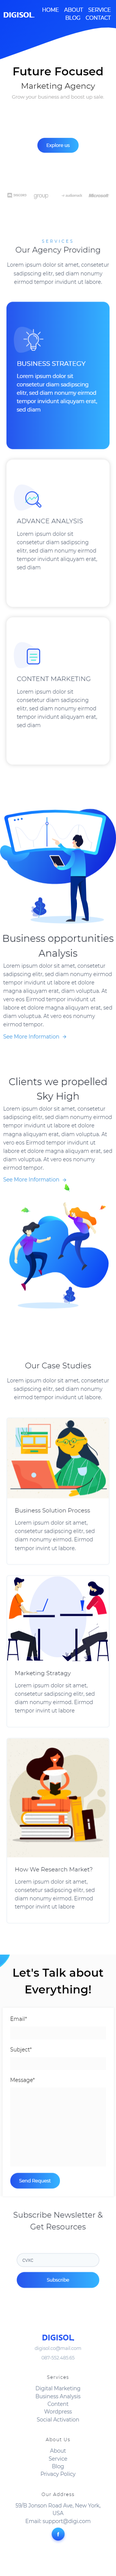
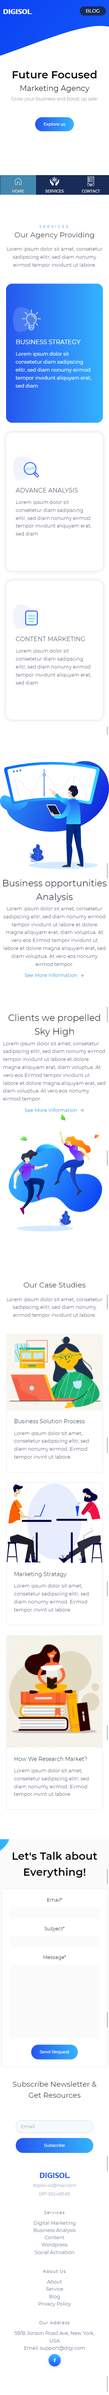
dd tab bar and fix responsive issue

diff --git a/index.html b/index.html
@@ -13,18 +13,16 @@
     <section id="main">
         <div class="page-container main-backround flex-c">
             <header class="header">
-                <img  src="/assets/illustration/logo.svg" alt="Logo" class="logo hide-mobile">
-                <img  src="/assets/illustration/logo-white.svg" alt="Logo" class="logo hide-desktop">
+                <img src="/assets/illustration/logo.svg" alt="Logo" class="logo hide-mobile">
+                <img src="/assets/illustration/logo-white.svg" alt="Logo" class="logo hide-desktop">
                 <nav>
-                <nav>
-                    <ul class="nav-list">
-                        <li><a href="#">HOME</a></li>
-                        <li><a href="#">ABOUT</a></li>
-                        <li><a href="#">SERVICE</a></li>
-                        <li><a href="#">BLOG</a></li>
-                        <li><a href="#">CONTACT</a></li>
-                    </ul>
-                </nav>
+                    <nav>
+                        <ul class="nav-list">
+                            <li class="hide-mobile"><a href="#">HOME</a></li>
+                            <li class="hide-mobile"><a href="#">SERVICES</a></li>
+                            <li class="mobile-href-btn"><a href="#">BLOG</a></li>
+                        </ul>
+                    </nav>
             </header>
             <div class="main-section-container">
                 <div class="flex-box-50 text-section">
@@ -109,7 +107,8 @@
                 <img alt="ecommerce" class="lg:w-1/2 w-full lg:h-auto  object-cover object-center rounded"
                     src="/assets/illustration/Analysis-illustration.svg">
                 <div style="align-self: center;" class="lg:w-1/2 w-full lg:pl-10 lg:py-6 mt-6 lg:mt-0">
-                    <h1 class="center-mobile text-left text-gray-900 text-3xl title-font font-medium mb-1">Business opportunities
+                    <h1 class="center-mobile text-left text-gray-900 text-3xl title-font font-medium mb-1">Business
+                        opportunities
                         Analysis</h1>
                     <p class="leading-relaxed long-paragraph">
                         Lorem ipsum dolor sit amet, consetetur sadipscing elitr, sed diam
@@ -118,7 +117,8 @@
 
                         Eirmod tempor invidunt ut labore et dolore magna aliquyam erat,
                         sed diam voluptua. At vero eos nonumy eirmod tempor.</p>
-                    <a href="#" class="text-left long-paragraph mt-3 text-blue-500 inline-flex items-center">See More Information
+                    <a href="#" class="text-left long-paragraph mt-3 text-blue-500 inline-flex items-center">See More
+                        Information
                         <svg fill="none" stroke="currentColor" stroke-linecap="round" stroke-linejoin="round"
                             stroke-width="2" class="w-4 h-4 ml-2" viewBox="0 0 24 24">
                             <path d="M5 12h14M12 5l7 7-7 7"></path>
@@ -132,7 +132,8 @@
         <div class="container py-10 px-80">
             <div class="lg:w-4/5 mx-auto flex flex-wrap">
                 <div style="align-self: center;" class=" lg:w-1/2 w-full lg:pl-10 lg:py-6 mt-6 lg:mt-0">
-                    <h1 class="center-mobile text-left text-gray-900 text-3xl title-font font-medium mb-1">Clients we propelled
+                    <h1 class="center-mobile text-left text-gray-900 text-3xl title-font font-medium mb-1">Clients we
+                        propelled
                         Sky High </h1>
                     <p class="leading-relaxed long-paragraph text-left">
                         Lorem ipsum dolor sit amet, consetetur sadipscing elitr, sed diam
@@ -141,7 +142,8 @@
 
                         Eirmod tempor invidunt ut labore et dolore magna aliquyam erat,
                         sed diam voluptua. At vero eos nonumy eirmod tempor.</p>
-                    <a href="#" class="text-left long-paragraph mt-3 text-blue-500 inline-flex items-center">See More Information
+                    <a href="#" class="text-left long-paragraph mt-3 text-blue-500 inline-flex items-center">See More
+                        Information
                         <svg fill="none" stroke="currentColor" stroke-linecap="round" stroke-linejoin="round"
                             stroke-width="2" class="w-4 h-4 ml-2" viewBox="0 0 24 24">
                             <path d="M5 12h14M12 5l7 7-7 7"></path>
@@ -202,8 +204,8 @@
             </div>
         </div>
     </section>
-    <section class="centered-text">
-        <div class="contact-section main-padding" >
+    <section id="contact" class="centered-text">
+        <div class="contact-section main-padding">
             <div class="form-container">
                 <form action="#">
                     <div class="form-group">
@@ -218,7 +220,7 @@
                         <span>Message*</span>
                         <textarea name="data" id="" cols="30" rows="10"></textarea>
                     </div>
-                    <div >
+                    <div>
                         <button class="cta">Send Request</button>
                     </div>
                 </form>
@@ -227,7 +229,8 @@
                 <h1 class="main-header">Let's Talk about
                     Everything! </h1>
                 <span class="border-bottom hide-mobile"></span>
-                <p class="hide-mobile">Lorem ipsum dolor sit amet, consetetur sadipscing elitr, sed diam nonumy eirmod tempor invidunt ut
+                <p class="hide-mobile">Lorem ipsum dolor sit amet, consetetur sadipscing elitr, sed diam nonumy eirmod
+                    tempor invidunt ut
                     labore et dolore magna aliquyam erat, diam voluptua. At vero eos</p>
             </div>
         </div>
@@ -316,8 +319,42 @@
                 </div>
             </div>
         </div>
-
     </footer>
+    <div class="tab-offset hide-desktop"></div>
+    <div class="tab-bar hide-desktop">
+        <div>
+            <input class="hit-area" type="radio" id="home-rad" name="hit-area" checked>
+            <div class="tab">
+                <a href="#main">
+                    <svg xmlns:dc="http://purl.org/dc/elements/1.1/" xmlns:cc="http://creativecommons.org/ns#" height="40" xmlns:rdf="http://www.w3.org/1999/02/22-rdf-syntax-ns#" xmlns:svg="http://www.w3.org/2000/svg" xmlns="http://www.w3.org/2000/svg" xmlns:sodipodi="http://sodipodi.sourceforge.net/DTD/sodipodi-0.dtd" xmlns:inkscape="http://www.inkscape.org/namespaces/inkscape" version="1.1" x="0px" y="0px" viewBox="0 0 100 125"><g transform="translate(0,-952.36218)"><path style="text-indent:0;text-transform:none;direction:ltr;block-progression:tb;baseline-shift:baseline;color:#000000;enable-background:accumulate;" d="m 48.781207,966.76842 -31,24.00005 c -0.486,0.3736 -0.7836,0.9808 -0.7812,1.5938 l 0,44.00003 c 10e-5,1.0472 0.9528,1.9999 2,2 l 21,0 c 1.0472,-10e-5 1.9999,-0.9528 2,-2 l 0,-24 16,0 0,24 c 1e-4,1.0472 0.9528,1.9999 2,2 l 21,0 c 1.0472,-10e-5 1.9999,-0.9528 2,-2 l 0,-44.00003 c 0,-0.613 -0.2952,-1.2202 -0.7812,-1.5938 l -31,-24.00005 c -0.9111,-0.5694 -1.6958,-0.5134 -2.4376,0 z m 1.2188,4.0938 29,22.46875 0,41.03133 -17,0 0,-24 c -10e-5,-1.0472 -0.9528,-1.9999 -2,-2 l -20,0 c -1.0472,10e-5 -1.9999,0.9528 -2,2 l 0,24 -17,0 0,-41.03133 z" fill="white" fill-opacity="1" stroke="none" marker="none" visibility="visible" display="inline" overflow="visible"/></g></svg>
+                </a>
+                <a href="#services"><label for="service-rad">HOME</a></label> 
+            </div>
+        </div>
+        <div>
+            <input class="hit-area" type="radio" id="service-rad" name="hit-area">
+           
+            <div class="tab">
+                <a href="#services" for="service-rad">
+                    <svg fill="white" height="40"  xmlns="http://www.w3.org/2000/svg" xmlns:xlink="http://www.w3.org/1999/xlink" version="1.1" x="0px" y="0px" viewBox="0 0 100 125" enable-background="new 0 0 100 100" xml:space="preserve"><path d="M86.7,45.9c-0.4-0.3-0.9-0.5-1.4-0.6c0,0,0-0.1-0.1-0.1c0.3-2.5,1.2-7.3,1.9-9.8c0.3-1.2,1.1-2.1,2.3-2.6  c-0.3,0.9-0.4,1.7-0.6,2.6c-0.5,2.8-1.1,7.8-1.2,10.4c0,0.3,0,0.5,0,0.8C87.4,46.4,87.1,46.1,86.7,45.9z M2.6,30.9  c-0.9,0.8-1.4,2-1.2,3.2l2.5,24.5l0.1,0.9c0.5,3.1,1.9,5.6,4,7.9l14.5,17.4l0.3,8c0,0.7,0.6,1.3,1.3,1.3l15.2,0.1  c0.7,0,1.3-0.6,1.3-1.3l0.5-9.7c0.1-1,0.2-2,0.2-2.8l0,0h0c0-1-0.1-1.7-0.1-1.7c-0.7-3-1.8-9-9.9-14.8c-0.8-0.6-1.9-1.7-2.5-2.4  l-9-11.6c-0.9-1.6-3.2-2.1-4.9-1.1c-1.7,1-2.2,3.3-1.3,4.8l8.7,14.1c0.3,0.5,0.1,1.1-0.4,1.3c-0.4,0.2-1,0.1-1.2-0.3l-0.4-0.5  c0,0-6.6-9-9.8-16.1c-0.6-1.3-0.9-2.6-1-4c0-0.2,0-0.5,0-0.7c-0.1-3.2-0.6-7.8-1.2-11c-0.2-0.9-0.6-4.2-1.6-5.3  C5.6,29.7,3.8,30,2.6,30.9z M12.8,35.4c0.7,2.5,1.5,7.3,1.9,9.8c0,0,0,0.1-0.1,0.1c-0.5,0.2-0.9,0.4-1.4,0.6c-0.4,0.2-0.7,0.5-1,0.7  c0-0.3,0-0.5,0-0.8c-0.1-2.7-0.7-7.6-1.2-10.4c-0.1-0.8-0.3-1.7-0.6-2.6C11.8,33.3,12.5,34.2,12.8,35.4z M17.7,38.9  c0.4,1.5,1.5,4.8,1.7,6.4c-0.7-0.3-1.4-0.4-2.2-0.4c0-0.1,0-0.2,0-0.3l-0.2-1.2c-0.2-1.8-1.3-5.1-1.7-7  C16.6,36.8,17.3,37.7,17.7,38.9z M97.4,30.9c0.9,0.8,1.4,2,1.2,3.2l-2.5,24.5l-0.1,0.9c-0.5,3.1-1.9,5.6-4.1,7.9L77.4,84.8l-0.3,8  c0,0.7-0.6,1.3-1.3,1.3l-15.2,0.1c-0.7,0-1.3-0.6-1.3-1.3l-0.5-9.7c-0.1-1-0.2-2-0.2-2.8v0c0-1,0.1-1.7,0.1-1.7  c0.7-3,1.8-9,9.9-14.8c0.8-0.6,1.9-1.7,2.5-2.4l9-11.6c0.9-1.6,3.2-2.1,4.9-1.1c1.7,1,2.2,3.3,1.3,4.8l-8.7,14.1  c-0.3,0.5-0.1,1.1,0.4,1.3c0.4,0.2,1,0.1,1.2-0.3l0.4-0.5c0,0,6.6-9,9.8-16.1c0.6-1.3,0.9-2.6,1-4c0-0.2,0-0.5,0-0.7  c0.1-3.2,0.6-7.8,1.2-11c0.2-0.9,0.6-4.2,1.6-5.3C94.4,29.7,96.2,30,97.4,30.9z M82.8,44.6c0,0.1,0,0.2,0,0.3  c-0.7,0-1.5,0.2-2.2,0.4c0.2-1.6,1.3-4.9,1.7-6.4c0.3-1.2,1-2.1,2.3-2.5c-0.4,1.8-1.4,5.2-1.7,7L82.8,44.6z M24.4,33.9  C24.4,19.8,35.9,8.3,50,8.3V6.1c0-0.2,0.3-0.4,0.5-0.2l6,4.1c0.2,0.1,0.2,0.4,0,0.5l-6,4.1c-0.2,0.1-0.5,0-0.5-0.2v-2.2  c-12,0-21.8,9.8-21.8,21.8c0,6.9,3.4,13.5,9,17.6L35,54.6C28.4,49.8,24.4,42.1,24.4,33.9z M37.7,44.2l2,2c0.4,0.4,1.1,0.4,1.5,0  l1.7-1.7c1.4,0.9,2.9,1.6,4.6,1.9v2.4c0,0.6,0.5,1.1,1.1,1.1h2.9c0.6,0,1.1-0.5,1.1-1.1v-2.4c1.7-0.3,3.2-1,4.6-1.9l1.7,1.7  c0.4,0.4,1.1,0.4,1.5,0l2-2c0.4-0.4,0.4-1.1,0-1.5L60.7,41c0.9-1.4,1.6-2.9,1.9-4.6H65c0.6,0,1.1-0.5,1.1-1.1v-2.9  c0-0.6-0.5-1.1-1.1-1.1h-2.4c-0.3-1.7-1-3.3-1.9-4.6l1.7-1.7c0.4-0.4,0.4-1.1,0-1.5l-2-2c-0.4-0.4-1.1-0.4-1.5,0l-1.7,1.7  c-1.4-0.9-2.9-1.6-4.6-1.9v-2.4c0-0.6-0.5-1.1-1.1-1.1h-2.9c-0.6,0-1.1,0.5-1.1,1.1v2.4c-1.7,0.3-3.2,1-4.6,1.9l-1.7-1.7  c-0.4-0.4-1.1-0.4-1.5,0l-2,2c-0.4,0.4-0.4,1.1,0,1.5l1.7,1.7c-0.9,1.4-1.6,2.9-1.9,4.6H35c-0.6,0-1.1,0.5-1.1,1.1v2.9  c0,0.6,0.5,1.1,1.1,1.1h2.4c0.3,1.7,1,3.2,1.9,4.6l-1.7,1.7C37.2,43.1,37.2,43.8,37.7,44.2z M50,28.1c3.2,0,5.8,2.6,5.8,5.8  c0,3.2-2.6,5.8-5.8,5.8c-3.2,0-5.8-2.6-5.8-5.8C44.2,30.7,46.8,28.1,50,28.1z M50,59.5L50,59.5l0,2.2c0,0.2-0.3,0.4-0.5,0.2l-6-4.1  c-0.2-0.1-0.2-0.4,0-0.5l6-4.1c0.2-0.1,0.5,0,0.5,0.2v2.2h0c12,0,21.8-9.8,21.8-21.8c0-6.9-3.4-13.5-9-17.6l2.2-3.1  c6.6,4.8,10.6,12.5,10.6,20.7C75.6,48,64.1,59.5,50,59.5z"/></svg>
+                    
+                </a>
+              <a href="#services"><label for="service-rad">SERVICES</a></label> 
+            </div>
+        </div>
+        <div>
+            <input class="hit-area" id="contact-rad" type="radio" name="hit-area">
+            <div class="tab">
+                <a href="#contact">
+                    <svg xmlns="http://www.w3.org/2000/svg" height="40" xmlns:xlink="http://www.w3.org/1999/xlink" viewBox="0 0 42 75" version="1.1" x="0px" y="0px"><g stroke="none" stroke-width="1" fill="none" fill-rule="evenodd"><g fill="white" fill-rule="nonzero"><path d="M39,0 L3,0 C1.34314575,-1.01453063e-16 0,1.34314575 0,3 L0,57 C0,58.6568542 1.34314575,60 3,60 L39,60 C40.6568542,60 42,58.6568542 42,57 L42,3 C42,1.34314575 40.6568542,1.01453063e-16 39,0 Z M3,2 L39,2 C39.5522847,2 40,2.44771525 40,3 L40,12 L2,12 L2,3 C2,2.44771525 2.44771525,2 3,2 Z M39,58 L3,58 C2.44771525,58 2,57.5522847 2,57 L2,14 L40,14 L40,57 C40,57.5522847 39.5522847,58 39,58 Z"/><path d="M7,10 C8.65685425,10 10,8.65685425 10,7 C10,5.34314575 8.65685425,4 7,4 C5.34314575,4 4,5.34314575 4,7 C4,8.65685425 5.34314575,10 7,10 Z M7,6 C7.55228475,6 8,6.44771525 8,7 C8,7.55228475 7.55228475,8 7,8 C6.44771525,8 6,7.55228475 6,7 C6,6.44771525 6.44771525,6 7,6 Z"/><path d="M13,8 L29,8 C29.5522847,8 30,7.55228475 30,7 C30,6.44771525 29.5522847,6 29,6 L13,6 C12.4477153,6 12,6.44771525 12,7 C12,7.55228475 12.4477153,8 13,8 Z"/><path d="M34,6 L37,6 C37.5522847,6 38,5.55228475 38,5 C38,4.44771525 37.5522847,4 37,4 L34,4 C33.4477153,4 33,4.44771525 33,5 C33,5.55228475 33.4477153,6 34,6 Z"/><path d="M34,9 L37,9 C37.5522847,9 38,8.55228475 38,8 C38,7.44771525 37.5522847,7 37,7 L34,7 C33.4477153,7 33,7.44771525 33,8 C33,8.55228475 33.4477153,9 34,9 Z"/><path d="M5,18 L15,18 C15.5522847,18 16,17.5522847 16,17 C16,16.4477153 15.5522847,16 15,16 L5,16 C4.44771525,16 4,16.4477153 4,17 C4,17.5522847 4.44771525,18 5,18 Z"/><path d="M36,20 L6,20 C4.8954305,20 4,20.8954305 4,22 L4,24 C4,25.1045695 4.8954305,26 6,26 L36,26 C37.1045695,26 38,25.1045695 38,24 L38,22 C38,20.8954305 37.1045695,20 36,20 Z M6,24 L6,22 L36,22 L36,24 L6,24 Z"/><path d="M15,30 C15.5522847,30 16,29.5522847 16,29 C16,28.4477153 15.5522847,28 15,28 L5,28 C4.44771525,28 4,28.4477153 4,29 C4,29.5522847 4.44771525,30 5,30 L15,30 Z"/><path d="M36,32 L6,32 C4.8954305,32 4,32.8954305 4,34 L4,46 C4,47.1045695 4.8954305,48 6,48 L36,48 C37.1045695,48 38,47.1045695 38,46 L38,34 C38,32.8954305 37.1045695,32 36,32 Z M6,46 L6,34 L36,34 L36,46 L6,46 Z"/><path d="M28,50 L14,50 C12.3431458,50 11,51.3431458 11,53 C11,54.6568542 12.3431458,56 14,56 L28,56 C29.6568542,56 31,54.6568542 31,53 C31,51.3431458 29.6568542,50 28,50 Z M28,54 L14,54 C13.4477153,54 13,53.5522847 13,53 C13,52.4477153 13.4477153,52 14,52 L28,52 C28.5522847,52 29,52.4477153 29,53 C29,53.5522847 28.5522847,54 28,54 Z"/></g></g></svg>
+                </a>
+                <a href="#services"><label for="service-rad">CONTACT</a></label> 
+            </div>
+            
+        </div>
+    </div>
+    <script src="/js/utility.js"></script>
+
 </body>
 
 </html>

diff --git a/css/style.css b/css/style.css
@@ -313,6 +313,81 @@ html, body {
 }
 
 @media only screen and (max-width: 768px) {
+  * {
+    -webkit-tap-highlight-color: rgba(0, 0, 0, 0);
+  }
+  .tab {
+    height: 100%;
+  }
+  .tab-offset {
+    height: 65px;
+  }
+  .main-padding {
+    padding: 0px 0px;
+  }
+  .tab-bar {
+    text-align: center;
+    position: fixed;
+    bottom: 0;
+    width: 100%;
+    z-index: 10;
+    display: -webkit-box !important;
+    display: -ms-flexbox !important;
+    display: flex !important;
+    background-color: #182c58;
+    -ms-flex-pack: distribute;
+        justify-content: space-around;
+    height: 65px;
+    -webkit-box-align: center;
+        -ms-flex-align: center;
+            align-items: center;
+    color: #CFD2CD;
+    font-weight: 700;
+    font-family: 'Segoe UI';
+  }
+  .tab-bar > div {
+    height: 100%;
+    width: 33%;
+    display: -webkit-box;
+    display: -ms-flexbox;
+    display: flex;
+    -webkit-box-orient: vertical;
+    -webkit-box-direction: normal;
+        -ms-flex-direction: column;
+            flex-direction: column;
+  }
+  .tab-bar > div > div {
+    display: -webkit-box;
+    display: -ms-flexbox;
+    display: flex;
+    -webkit-box-align: center;
+        -ms-flex-align: center;
+            align-items: center;
+    -webkit-box-pack: center;
+        -ms-flex-pack: center;
+            justify-content: center;
+    -webkit-box-orient: vertical;
+    -webkit-box-direction: normal;
+        -ms-flex-direction: column;
+            flex-direction: column;
+    height: 100%;
+    font-size: 12px;
+  }
+  .tab-bar input:checked ~ .tab {
+    background: #4388af;
+    width: 100%;
+  }
+  .hit-area {
+    cursor: pointer;
+    z-index: 1;
+    display: none;
+  }
+  .mobile-href-btn {
+    padding: 3px 20px !important;
+    background: #182c58;
+    display: block;
+    border-radius: 40px;
+  }
   .main-header {
     font-size: 35px;
     text-align: center;
@@ -359,6 +434,12 @@ html, body {
   }
   .hide-desktop {
     display: block;
+  }
+}
+
+@media only screen and (max-height: 450px) {
+  .tab-bar, .tab {
+    display: none !important;
   }
 }
 /*# sourceMappingURL=style.css.map */

diff --git a/css/style.scss b/css/style.scss
@@ -224,6 +224,62 @@ html,body {
 }
 @media only screen and (max-width:768px)
 {
+    * { -webkit-tap-highlight-color: rgba(0, 0, 0, 0); }
+
+    .tab {
+        height: 100%;
+    }
+    .tab-offset {
+        height: 65px;
+    }
+    .main-padding {
+        padding: 0px 0px;
+    }
+    .tab-bar {
+        text-align: center;
+        position: fixed;
+        bottom: 0;
+        width: 100%;
+        z-index: 10;
+        display: flex !important;
+        background-color: rgb(24, 44, 88);
+        justify-content: space-around;
+        height: 65px;
+        > div {
+            height: 100%;
+            width: 33%;
+            display: flex;
+            flex-direction: column;
+        }
+        > div > div{
+            display: flex;
+            align-items: center;
+            justify-content: center;
+            flex-direction: column;
+            height: 100%;
+            font-size: 12px;
+        }
+        input:checked ~.tab {
+            background: rgb(67, 136, 175);
+            width: 100%;
+        }
+        align-items: center;
+        color: #CFD2CD;
+        font-weight: 700;
+        font-family: 'Segoe UI';
+    }
+    .hit-area {
+        cursor: pointer;
+        z-index: 1;
+        display: none;
+       
+      }
+    .mobile-href-btn {
+        padding: 3px 20px !important;
+        background: rgb(24, 44, 88);
+        display: block;
+        border-radius: 40px;
+    }
     .main-header {
         font-size: $main-header-size - 5px;
         text-align: center;
@@ -270,3 +326,9 @@ html,body {
         display: block;
     }
 }
+@media only screen  and (max-height :450px) {
+    .tab-bar,.tab {
+        display: none !important;
+    }
+  }
+  

diff --git a/js/utility.js b/js/utility.js
@@ -1,0 +1,15 @@
+window.addEventListener("scroll", function() {
+    var main = document.getElementById("main");
+    var services = document.getElementById("services");
+    var contact = document.getElementById("contact");
+    if (window.scrollY < (main.offsetTop + main.offsetHeight)) {
+       document.getElementById("home-rad").checked = true;
+    }else
+    if (window.scrollY < (services.offsetTop + services.offsetHeight)) {
+        document.getElementById("service-rad").checked = true;
+     }else
+     if (window.scrollY < (contact.offsetTop + contact.offsetHeight)) {
+        document.getElementById("contact-rad").checked = true;
+     }
+  });
+  
